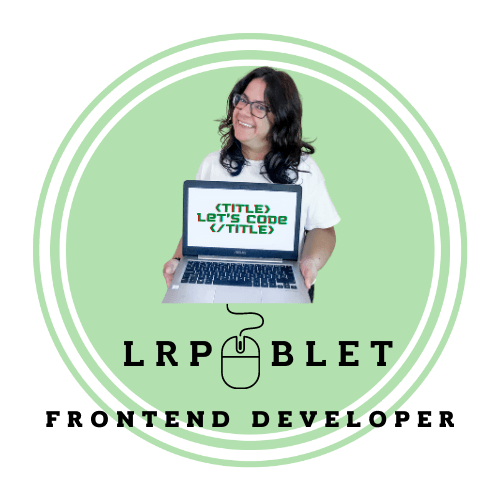
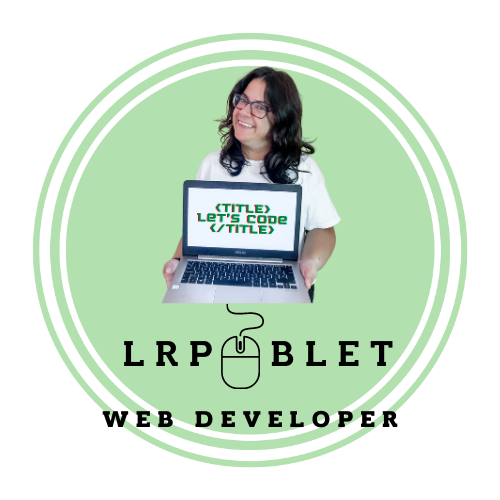
image and title change

Changed region(s): [[0.09, 0.81, 0.93, 0.87]]

diff --git a/index.html b/index.html
@@ -4,7 +4,7 @@
 <head>
   <meta charset="UTF-8" />
   <meta name="viewport" content="width=device-width, initial-scale=1" />
-  <title>Lara R. Poblet - Front End developer</title>
+  <title>Lara Ramos Poblet - Web developer</title>
   <link href="https://fonts.googleapis.com/css?family=Open+Sans|Oswald&display=swap" rel="stylesheet" />
   <link rel="stylesheet" href="./scss/main.css" />
   <link rel="icon" href="./images/favicon.png" />
